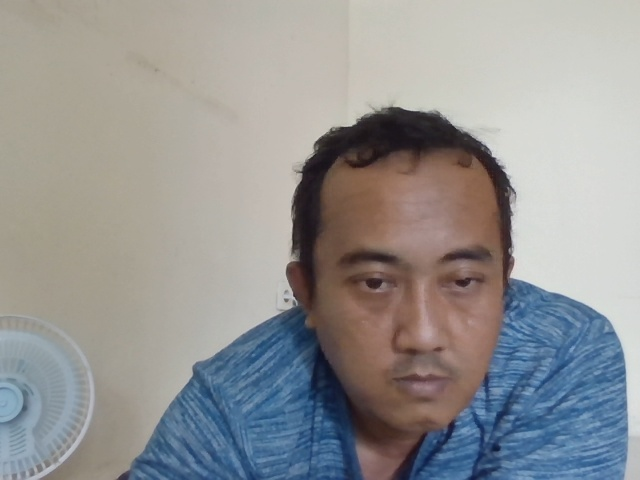
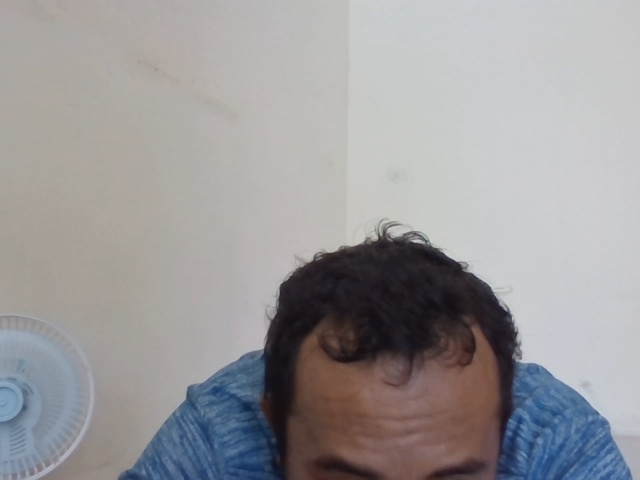
update

diff --git a/src/pages/index.tsx b/src/pages/index.tsx
@@ -2,13 +2,13 @@ import { useState, useRef, useEffect } from "react";
 import axios from "axios";
 
 export default function Home() {
-  const [result, setResult] = useState("");
-  const [history, setHistory] = useState([]);
-  const videoRef = useRef(null);
-  const canvasRef = useRef(null);
-  const [streaming, setStreaming] = useState(false);
-  const [loading, setLoading] = useState(false);
-  const [cameraFacingMode, setCameraFacingMode] = useState("user");
+  const [result, setResult] = useState<string>("");
+  const [history, setHistory] = useState<any[]>([]);
+  const videoRef = useRef<HTMLVideoElement | null>(null);
+  const canvasRef = useRef<HTMLCanvasElement | null>(null);
+  const [streaming, setStreaming] = useState<boolean>(false);
+  const [loading, setLoading] = useState<boolean>(false);
+  const [cameraFacingMode, setCameraFacingMode] = useState<string>("user");
 
   useEffect(() => {
     if (typeof window !== "undefined") {
@@ -41,7 +41,7 @@ export default function Home() {
 
     return () => {
       if (videoRef.current?.srcObject) {
-        const tracks = videoRef.current.srcObject.getTracks();
+        const tracks = (videoRef.current.srcObject as MediaStream).getTracks();
         tracks.forEach((track) => track.stop());
       }
     };
@@ -129,15 +129,14 @@ export default function Home() {
     gap: "12px 16px", // vertical and horizontal gaps between buttons
     maxWidth: 360,
     margin: "0 auto 1rem",
-    };
-
+  };
 
   return (
     <div style={containerStyle}>
       <img src="/static/images/logo_100.png" alt="Logo" style={logoStyle} />
 
       <div style={{ position: "relative", textAlign: "center", marginBottom: 12 }}>
-        <video
+                <video
           ref={videoRef}
           style={{
             ...videoStyle,
@@ -154,23 +153,27 @@ export default function Home() {
         )}
       </div>
 
-    <div style={buttonGridStyle}>
-        <button onClick={toggleCamera} style={buttonStyle}>
+      <div style={buttonGridStyle}>
+        <button onClick={toggleCamera} style={buttonStyle} type="button">
           Switch Camera
         </button>
-        <button onClick={captureAndSend} disabled={loading || !streaming} style={buttonStyle}>
+        <button
+          onClick={captureAndSend}
+          disabled={loading || !streaming}
+          style={buttonStyle}
+          type="button"
+        >
           {loading ? "Analyzing…" : "Scan Mouth"}
         </button>
-        <button onClick={() => setResult("")} style={buttonStyle}>
+        <button onClick={() => setResult("")} style={buttonStyle} type="button">
           Clear Result
         </button>
-        <button onClick={clearHistory} style={buttonStyle}>
+        <button onClick={clearHistory} style={buttonStyle} type="button">
           Clear History
         </button>
       </div>
 
-
-      <canvas ref={canvasRef} style={{ display: "none" }}></canvas>
+      <canvas ref={canvasRef} style={{ display: "none" }} />
 
       <div style={resultContainerStyle}>
         {result ? (
@@ -178,7 +181,7 @@ export default function Home() {
             <div>
               <h2>Scan Result</h2>
               <ul style={resultListStyle}>
-                {JSON.parse(result).map((item, index) => (
+                {JSON.parse(result).map((item: any, index: number) => (
                   <li key={index} style={resultItemStyle}>
                     {item.label}: {item.score.toFixed(2)}
                   </li>
@@ -197,11 +200,11 @@ export default function Home() {
         <h2>Scan History</h2>
         {history.length > 0 ? (
           <ul style={historyListStyle}>
-            {history.map((item, index) => (
+            {history.map((item: any[], index: number) => (
               <li key={index} style={historyItemStyle}>
                 <h3>Scan {index + 1}</h3>
                 <ul style={resultListStyle}>
-                  {item.map((resultItem, resultIndex) => (
+                  {item.map((resultItem: any, resultIndex: number) => (
                     <li key={resultIndex} style={resultItemStyle}>
                       {resultItem.label}: {resultItem.score.toFixed(2)}
                     </li>
@@ -218,9 +221,9 @@ export default function Home() {
   );
 }
 
-// Styles
+// Styles (kept as you provided)
 
-const containerStyle = {
+const containerStyle: React.CSSProperties = {
   maxWidth: 480,
   margin: "2rem auto",
   padding: "1rem",
@@ -231,20 +234,20 @@ const containerStyle = {
   boxShadow: "0 4px 12px rgba(0,0,0,0.1)",
 };
 
-const logoStyle = {
+const logoStyle: React.CSSProperties = {
   display: "block",
   margin: "0 auto 1rem",
   width: "100px",
 };
 
-const videoStyle = {
+const videoStyle: React.CSSProperties = {
   width: "100%",
   borderRadius: 10,
   boxShadow: "0 2px 6px rgba(0,0,0,0.15)",
   backgroundColor: "#000",
 };
 
-const loadingOverlayStyle = {
+const loadingOverlayStyle: React.CSSProperties = {
   position: "absolute",
   top: 0,
   left: 0,
@@ -258,14 +261,14 @@ const loadingOverlayStyle = {
   pointerEvents: "none",
 };
 
-const loadingTextStyle = {
+const loadingTextStyle: React.CSSProperties = {
   fontSize: "1.5rem",
   fontWeight: "700",
   color: "#0070f3",
   userSelect: "none",
 };
 
-const buttonStyle = {
+const buttonStyle: React.CSSProperties = {
   backgroundColor: "#0070f3",
   color: "#fff",
   border: "none",
@@ -277,13 +280,7 @@ const buttonStyle = {
   boxShadow: "0 4px 8px rgba(0, 112, 243, 0.3)",
 };
 
-const hoverButtonStyle = {
-  backgroundColor: "#005bb5",
-  transform: "scale(1.05)",
-};
-
-
-const resultContainerStyle = {
+const resultContainerStyle: React.CSSProperties = {
   marginTop: 20,
   backgroundColor: "#fff",
   padding: 16,
@@ -297,16 +294,16 @@ const resultContainerStyle = {
   overflowX: "auto",
 };
 
-const resultListStyle = {
+const resultListStyle: React.CSSProperties = {
   listStyleType: "none",
   padding: 0,
 };
 
-const resultItemStyle = {
+const resultItemStyle: React.CSSProperties = {
   margin: "5px 0",
 };
 
-const historyContainerStyle = {
+const historyContainerStyle: React.CSSProperties = {
   marginTop: 20,
   backgroundColor: "#fff",
   padding: 16,
@@ -314,12 +311,11 @@ const historyContainerStyle = {
   boxShadow: "inset 0 0 4px #ddd",
 };
 
-const historyListStyle = {
+const historyListStyle: React.CSSProperties = {
   listStyleType: "none",
   padding: 0,
 };
 
-const historyItemStyle = {
+const historyItemStyle: React.CSSProperties = {
   margin: "10px 0",
 };
-

diff --git a/src/pages/api/inference.tsx b/src/pages/api/inference.tsx
@@ -82,9 +82,10 @@ export default async function handler(
 
     // Append file stream, not buffer, with field name matching FastAPI param (file)
     formData.append("file", fs.createReadStream(destPath), {
-      filename: fileName,
-      contentType: imageFile.mimetype,
+        filename: fileName,
+        contentType: imageFile.mimetype ?? 'application/octet-stream', // Default value
     });
+
 
     // Forward the image file to FastAPI
     const response = await axios.post("http://127.0.0.1:8000/api/inference", formData, {
